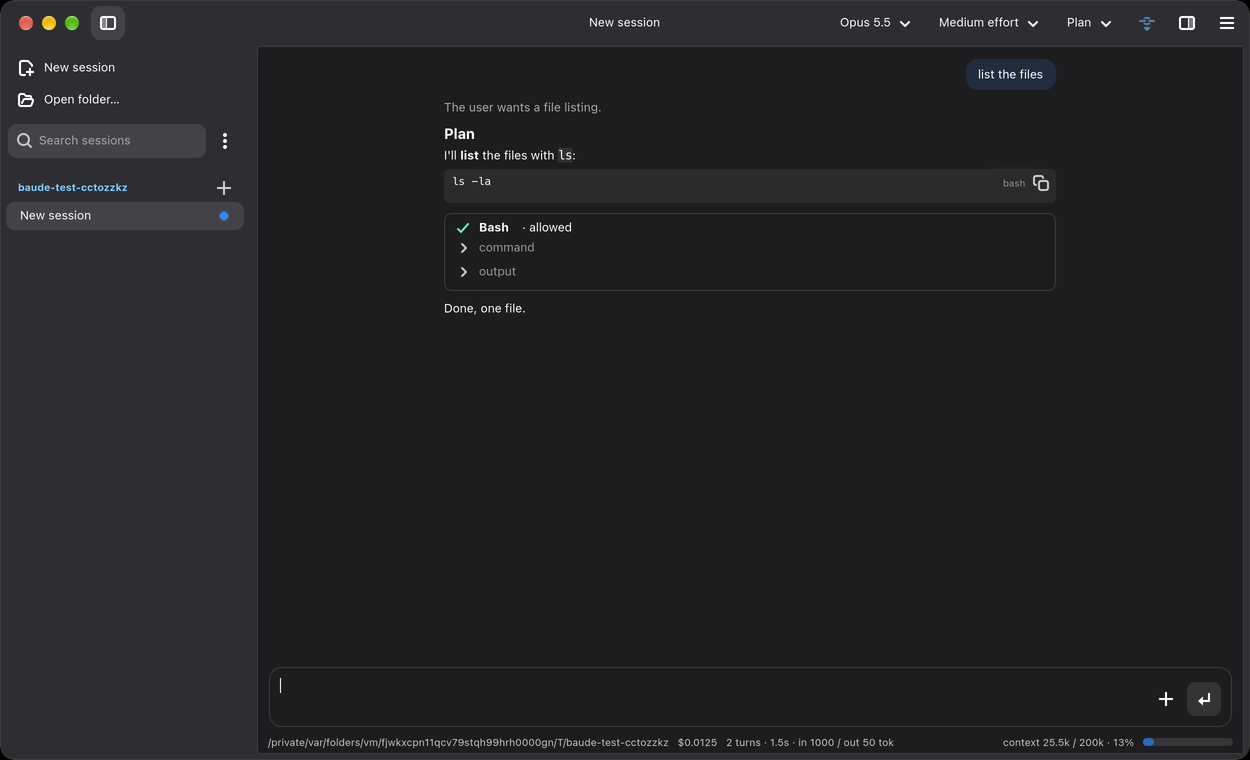
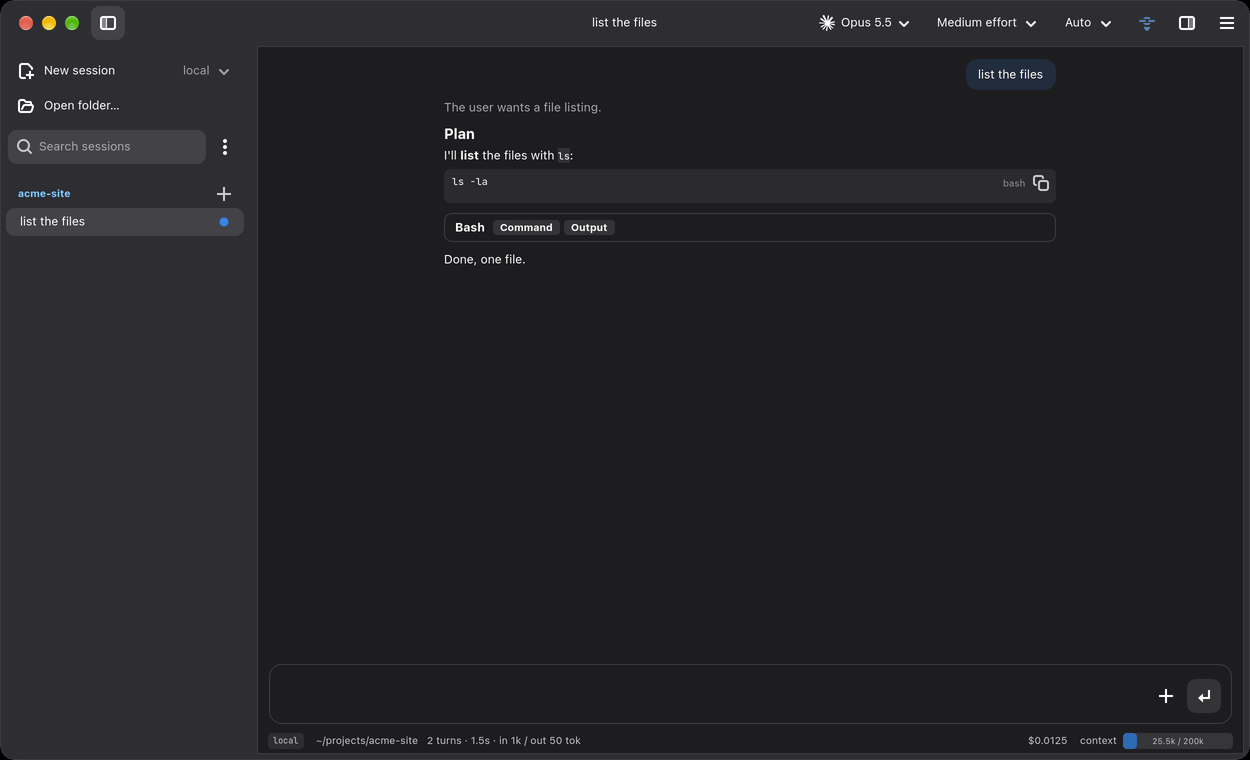
README: current images of Baude, Record, Emission and the Android app
The README's thirteen images are rendered again from today's main, with a fixture
folder in place of the temp path, and new ones show what has shipped since: Bots and
their memory and routines, compaction, subagents and messages across the mesh,
Record, Emission and a Bot's browser window. android/README.md introduces the phone
app, how it reaches hosts and how to build it, with images taken on the emulator.

diff --git a/README.md b/README.md
@@ -10,6 +10,7 @@ and shows the chat, its tool calls and every session on the machine.
 | | |
 |---|---|
 | ![Markdown](docs/screenshots/30-markdown-gallery-light.png)<br>Markdown | ![Signal links](docs/screenshots/37b-signal-link-kinds-light.png)<br>Signal links |
+| ![Compaction](docs/screenshots/compaction-light.png)<br>Where Claude compacted the chat | ![Mesh subagents](docs/screenshots/mesh-subagents-light.png)<br>Subagents and messages across the mesh |
 
 Code is set in JetBrains Mono, at the size that matches the text around it. Settings → Code Font picks another:
 the open fonts in [fonts/](fonts/README.md) (SIL Open Font License), or macOS's SF Mono and Menlo.
@@ -54,6 +55,16 @@ grown), "Context Exhausted" shows over its box, the box off, and the context bar
 the window's, till a model with a bigger window is picked or the chat's cleared; Baude's chats do the same. Code mode
 has it act by writing up to 10 lines of Python against the app's tools (`meta.py`). Ctrl+M (Control on macOS too),
 from anywhere in the window, shows it and puts the focus in its box; pressed again while it's open, it closes it.
+
+## Bots
+
+A chat on a host made a Bot (right-click → Make Bot…) gets a name and a picture, and is listed at the top of the
+sidebar. Its agent is given its name and its memory each time it starts; the Memory page shows the Bot's changes to
+its memory, to accept or reject. Routines start it on a schedule, and it has a browser of its own (see Emission).
+
+| | |
+|---|---|
+| ![Bots](docs/screenshots/bots-memory-light.png)<br>Bots, and a Bot's memory | ![Routines](docs/screenshots/bot-routines-light.png)<br>A Bot's routines |
 
 ## Codex backend (draft)
 
@@ -118,6 +129,15 @@ python3 baude.py --install   # add Baude to your application menu
 python3 record.py            # Record
 ```
 
+Record, the second app, keeps notebooks of wiki pages in your own words, with Meta beside them, and reads a Claude
+Code chat beside your notes.
+
+![Record](docs/screenshots/record-light.png)
+
+## Android
+
+[android/](android/README.md) is Baude for your phone: the chats on your hosts and your Bots, over ssh or Tailscale.
+
 ## Emission
 
 `emission.py` is Baude's browser, a window of its own for now: tabs, back and forward, an address bar that searches
@@ -131,6 +151,10 @@ virtual one of its own, with `xvfb-run` installed (package `xvfb`).
 ```bash
 python3 emission.py [URL] [--profile NAME]
 ```
+
+| | |
+|---|---|
+| ![Emission](docs/screenshots/emission-dark.png)<br>Emission | ![A Bot's browser](docs/screenshots/bot-browser-window-light.png)<br>A Bot's browser in its own window, its pointer and glow |
 
 A Bot has a browser of its own: its tools (`mcp__emission__…`) drive its own Emission profile, on any host of the
 mesh. On each host its profile is its own there, made when it's first used and named after the Bot. The host process
@@ -173,6 +197,8 @@ chat started on that host. From the command line, `baude_headless.py link DEST`,
 and `--member ID` reaches a member of the mesh in place of `--host`. Right-click a host → Deactivate, and it's left out:
 it isn't reached from here, nor let reach here, and it's grayed with its chats, till you Activate it (or
 `baude_headless.py deactivate DEST`, `activate DEST`).
+
+![A message from another host's Bot](docs/screenshots/mesh-message-from-bot-dark.png)
 
 Heads start the host process when they need it, so there's nothing to run by hand. With no head attached and no link to
 another host it does nothing: no timers, a session's claude stopped once it's been idle half an hour, and the process

diff --git a/android/README.md b/android/README.md
@@ -1,0 +1,34 @@
+# Baude for Android
+
+Baude on your phone: the chats on your hosts, your Bots as contacts, and Meta, the helper that operates the app. The
+phone runs no `claude` of its own. It reaches each host's host process (`baude_headless.py`) over ssh, as Baude on
+another machine does: add a host as `user@host`, its Tailscale name on a tailnet, and the phone runs
+`baude_headless.py connect` there. Its ssh key is made in the Android Keystore, which signs with it and never gives it
+out; put its public half (Hosts shows it) in the host's `~/.ssh/authorized_keys`. A host's own key is trusted once
+you've compared it. Through the hosts you add, the phone reaches every member of their mesh, and joins it: agents
+made on the phone ("This phone") run there, their models served by a machine of the mesh.
+
+| | |
+|---|---|
+| <img src="../docs/screenshots/android/home-light.png" width="270" alt="Home"><br>Home: Bots, then chats by folder and host | <img src="../docs/screenshots/android/home-dark.png" width="270" alt="Home, dark"><br>The same, dark |
+| <img src="../docs/screenshots/android/chat-light.png" width="270" alt="Chat"><br>A chat: a subagent and an artifact | <img src="../docs/screenshots/android/permission-dark.png" width="270" alt="Permission"><br>A command asking to run |
+| <img src="../docs/screenshots/android/memory-light.png" width="270" alt="Memory"><br>Memory: a Bot's changes, to accept or reject | <img src="../docs/screenshots/android/browser-dark.png" width="270" alt="Browser"><br>Browser: a Bot's browser on its host |
+| <img src="../docs/screenshots/android/meta-light.png" width="270" alt="Meta"><br>Meta: chats moved to a group, with undo | <img src="../docs/screenshots/android/phone-use-light.png" width="270" alt="Phone Use"><br>Phone Use: a Bot driving the phone's browser |
+| <img src="../docs/screenshots/android/this-phone-dark.png" width="270" alt="This phone"><br>This phone: its agents, and the mesh's models | |
+
+The pages along the bottom are Baude's side panel: Chat, Meta, Memory, Browser and Routines (a Bot's), then Subagents,
+Processes, Side questions, Artifacts, Files, Git and Signal.
+
+## Building it
+
+You need JDK 17 and the Android SDK (Android Studio has both; or set `sdk.dir` in `local.properties`, or
+`ANDROID_HOME`). Build from a checkout of the whole repository: the phone's browser takes its page scripts from
+`../emission.py`.
+
+```bash
+cd android
+./gradlew assembleDebug
+adb install app/build/outputs/apk/debug/app-debug.apk
+```
+
+It runs on Android 8 (API 26) or later.
